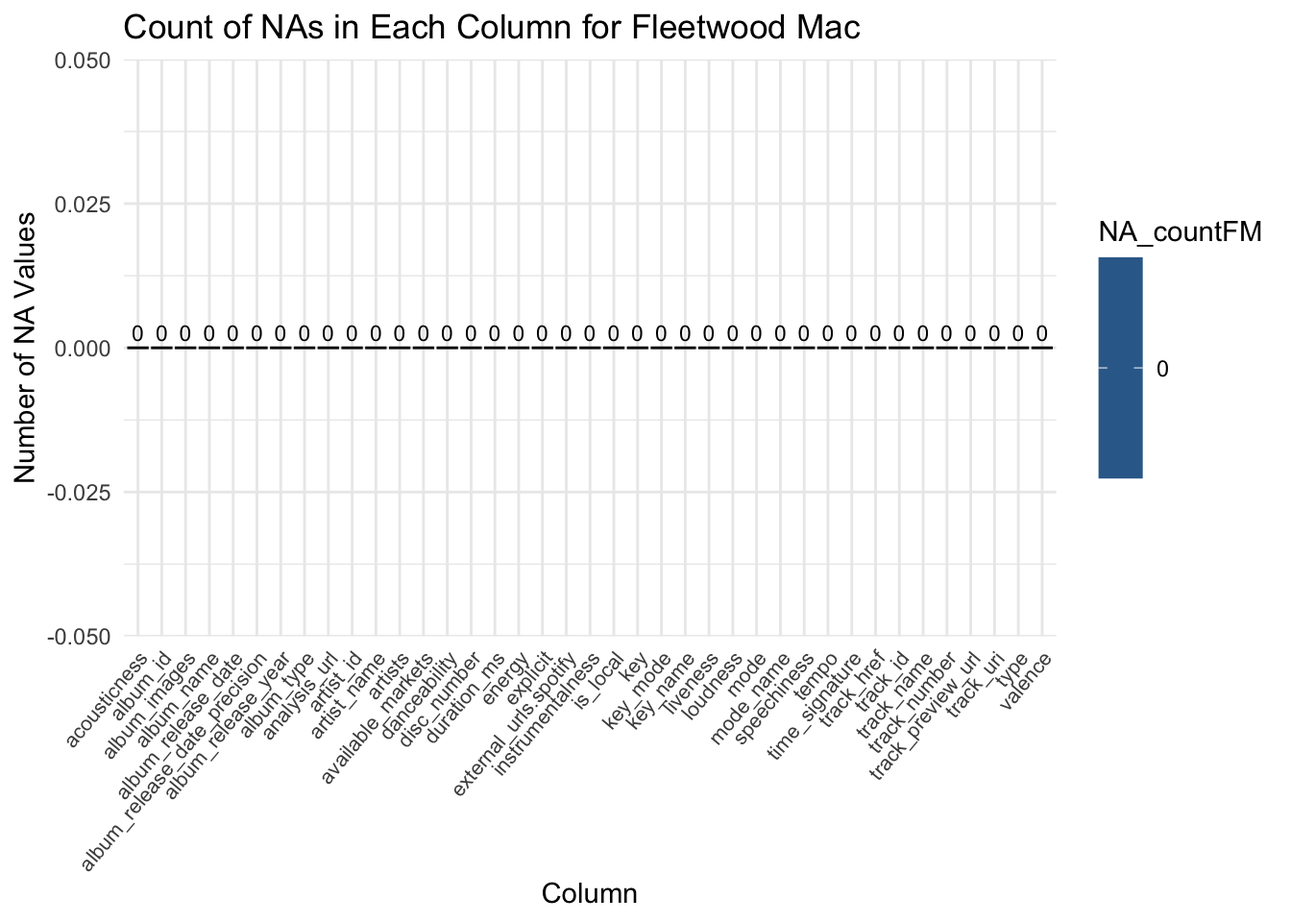
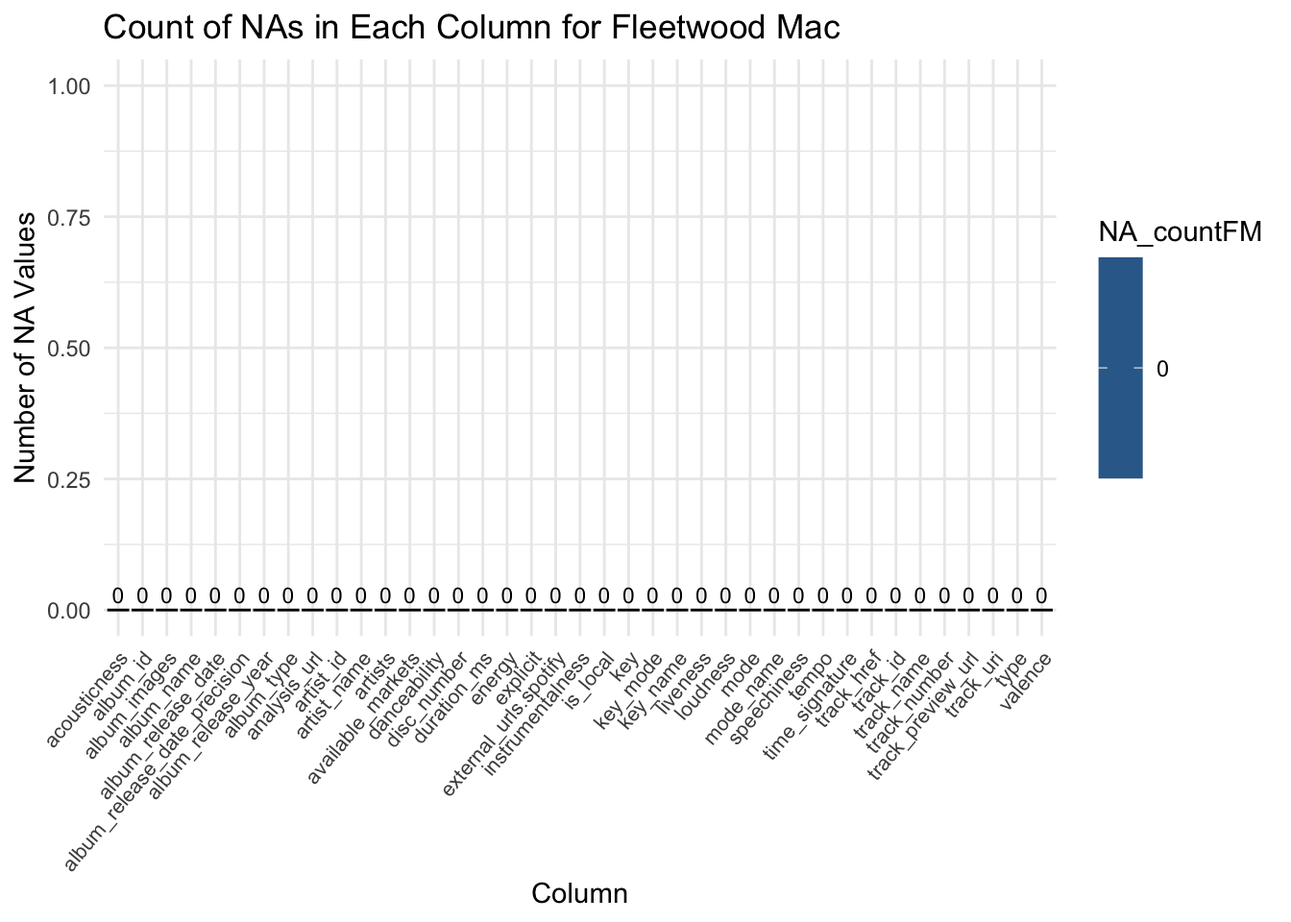
Many fixes

Changed region(s): [[0.0312, 0.0, 0.8125, 0.9375], [0.4062, 0.9375, 0.5, 1.0]]

diff --git a/docs/data.html b/docs/data.html
@@ -176,9 +176,9 @@ pre > code.sourceCode > span > a:first-child::before { text-decoration: underlin
     <h2 id="toc-title">Table of contents</h2>
    
   <ul>
-  <li><a href="#technical-description" id="toc-technical-description" class="nav-link active" data-scroll-target="#technical-description"><span class="header-section-number">2.1</span> Technical description</a></li>
-  <li><a href="#description" id="toc-description" class="nav-link" data-scroll-target="#description"><span class="header-section-number">2.2</span> Description</a></li>
-  <li><a href="#missing-value-analysis" id="toc-missing-value-analysis" class="nav-link" data-scroll-target="#missing-value-analysis"><span class="header-section-number">2.3</span> Missing value analysis</a></li>
+  <li><a href="#technical-description" id="toc-technical-description" class="nav-link active" data-scroll-target="#technical-description"><span class="header-section-number">2.1</span> Technical Description</a></li>
+  <li><a href="#research-plan" id="toc-research-plan" class="nav-link" data-scroll-target="#research-plan"><span class="header-section-number">2.2</span> Research Plan</a></li>
+  <li><a href="#missing-value-analysis" id="toc-missing-value-analysis" class="nav-link" data-scroll-target="#missing-value-analysis"><span class="header-section-number">2.3</span> Missing Value Analysis</a></li>
   </ul>
 <div class="toc-actions"><div><i class="bi bi-github"></i></div><div class="action-links"><p><a href="https://github.com/jjvv00/SpotifyTrends.git/edit/main/data.qmd" class="toc-action">Edit this page</a></p><p><a href="https://github.com/jjvv00/SpotifyTrends.git/issues/new" class="toc-action">Report an issue</a></p></div></div></nav>
     </div>
@@ -203,22 +203,20 @@ pre > code.sourceCode > span > a:first-child::before { text-decoration: underlin
 </header>
 
 <section id="technical-description" class="level2" data-number="2.1">
-<h2 data-number="2.1" class="anchored" data-anchor-id="technical-description"><span class="header-section-number">2.1</span> Technical description</h2>
+<h2 data-number="2.1" class="anchored" data-anchor-id="technical-description"><span class="header-section-number">2.1</span> Technical Description</h2>
 <p>We will be accessing the Spotify Web API that provides us to a vast collection of music-related data. This could include information about tracks, albums, artists, and user-specific information. This data is collected and maintained by Spotify, a leading music streaming platform. Thus, we are assuming that Spotify is able to update the API frequently. There are not any obvious issues or problems with the data. We plan to retrieve data through the “spotifyr” R wrapper for pulling track audio features and other information from Spotify’s Web API in bulk <a href="https://www.rcharlie.com/spotifyr/">(Thompson, Et al., 2022)</a>. The authors are Josia Parry, Donal Phipps, Tom Wolf, and Charlie Thompson, who also maintains the package. According to Thomposon’s Github, the last changes are from December 14, 2022.</p>
-<p>Even Oppenheimer completed a project called “Using Data to Find the Angriest Death Grips Song“ <a href="https://medium.com/@evanopp/angriest-death-grips-data-anger-502168c1c2f0">(Oppenheimer, 2022)</a>. We plan to follow this procedure in tandem with the valence and energy variables from the “spotifyr” R wrapper to analyze the moods of the songs. Our current concern is that Oppenheimer uses an r package, ‘genius,’ written by Josiah Parry with ’tidytext” by Julia Slige to count the number of angry words that are in songs. “genuis” package allows easy access to lyrics as text data, however, Parry announced on October 31, 2021, that he will not be maintaining the package due to the gray legal area <a href="https://github.com/JosiahParry/genius">(Parry, 2023)</a> . On the other hand, “tidytext” was recently updated on September 5, 2023.</p>
+<p>Our data is in the form of 4 dataframes, one for each of our top two artists. These data frames contain all of the songs for a specific artist (Taylor Swift, Fleetwood Mac, Doja Cat, and Peso Pluma). There are 39 features listed for each song. These range from basic descriptors such as song title, album, release date, to more complex features to describe the mood/tone of the songs. We will mainly utilize the danceability, energy, and valence scores for each song. The number of rows in each of these data frames is the total number of songs each artist has. Taylor Swift will have a data frame of 530 X 39. Fleetwood Mac has a data frame of size 760 X 39. Doja Cat has a data frame of size 91 X 39, and Peso Pluma has a data frame of size 57 X 39.</p>
 </section>
-<section id="description" class="level2" data-number="2.2">
-<h2 data-number="2.2" class="anchored" data-anchor-id="description"><span class="header-section-number">2.2</span> Description</h2>
-<p>Comparative Analysis of Top Tracks:</p>
-<p>The Spotify Web API provides access to user-specific data, including the top tracks for each user. By querying the API for both partners, we can retrieve information on their individual top tracks. The data includes details such as track name, artist, album, and popularity. Through the Spotify R package, we can seamlessly compare the top tracks, identifying commonalities and differences in musical preferences. Using the <code>get_my_top_tracks</code> function from the “spotifyr,” we can get the top tracks from each user. We can extract relevant details such as track name, artist, and album and save it to a data frame and visualize it.</p>
+<section id="research-plan" class="level2" data-number="2.2">
+<h2 data-number="2.2" class="anchored" data-anchor-id="research-plan"><span class="header-section-number">2.2</span> Research Plan</h2>
+<p>Comparative Analysis of Top Artists:</p>
+<p>We will analyze the top two artists for each of us provided by our Spotify Wrapped.</p>
 <p>Exploring Album Moods:</p>
-<p>Leveraging the Spotify API’s audio features, particularly valence and energy, we can analyze the mood dynamics of artists’ albums. Valence represents the musical positiveness, while energy represents the intensity and activity. By aggregating these features at the album level, we gain insights into the overall emotional content of each album. The Spotify R package allows us to efficiently extract and process this information, enabling us to explore patterns and themes in the emotional landscape of diverse artists. By utilizing the <code>get_audio_features</code> function from the “spotifyr,” we can obtain the valence and energy features for each track. Then. we can aggregate these features at the album level to represent the overall mood. Lastly, we can analyze patterns and trends in mood dynamics across different artists’ albums.</p>
-<p>Lyrics and Emotional Expression:</p>
-<p>The Genius R package provides access to song lyrics, allowing us to perform sentiment analysis and explore emotional expression in the lyrics of selected songs. By querying the Genius API through the “genuis” R package, we can retrieve lyrics for specific tracks of interest. Combining this textual data with the emotional features obtained from the Spotify API, we can deepen our understanding of how lyrics contribute to the overall emotional depth and resonance of the music. We can query the Genius API through the “genuis” to retrieve lyrics for selected tracks. Then we can perform sentiment analysis on the lyrics to quantify emotional expression based on the number of “angry” words identified by NRC’s standards with the help of “tidytext”.</p>
-<p>By executing these data-driven analyses, we should be able to identify shared musical preferences and unique individual tastes based on top track analysis and visualize the emotional dynamics within albums, offering insights into how artists convey mood through their music. Our project aims to contribute meaningful insights into the intricate relationship between personal music preferences, emotional resonance, and the broader artistic expression found within the world of music.</p>
+<p>Leveraging the Spotify API’s audio features, particularly valence and energy, we can analyze the mood dynamics of artists’ albums. Valence represents the musical positivity, while energy represents the intensity and activity. By aggregating these features at the album level, we gain insights into the overall emotional content of each album. The Spotify R package allows us to extract and process this information efficiently, enabling us to explore patterns and themes in the emotional landscape of diverse artists. By utilizing the <code>get_audio_features</code> function from the “spotifyr,” we can obtain the valence, danceability, and energy features for each track. Then. we can aggregate these features at the album level to represent the overall mood. Lastly, we can analyze patterns and trends in mood dynamics across different artists’ albums.</p>
 </section>
 <section id="missing-value-analysis" class="level2" data-number="2.3">
-<h2 data-number="2.3" class="anchored" data-anchor-id="missing-value-analysis"><span class="header-section-number">2.3</span> Missing value analysis</h2>
+<h2 data-number="2.3" class="anchored" data-anchor-id="missing-value-analysis"><span class="header-section-number">2.3</span> Missing Value Analysis</h2>
+<p>The only missing values are in the “track_preview_url” column in the Taylor Swift dataframe.</p>
 <div class="cell">
 <details>
 <summary>Code</summary>
@@ -286,6 +284,7 @@ Attaching package: 'dplyr'</code></pre>
 <p><img src="data_files/figure-html/unnamed-chunk-2-1.png" class="img-fluid" width="672"></p>
 </div>
 </div>
+<p>As you can see, the NA values are in the “track_preview_url” column. However, we will not be using this feature anyway, so we will remove it from all of the dataframes.</p>
 <div class="cell">
 <details>
 <summary>Code</summary>
@@ -298,15 +297,17 @@ Attaching package: 'dplyr'</code></pre>
 <span id="cb10-7"><a href="#cb10-7" aria-hidden="true" tabindex="-1"></a></span>
 <span id="cb10-8"><a href="#cb10-8" aria-hidden="true" tabindex="-1"></a><span class="fu">ggplot</span>(na_dataFM, <span class="fu">aes</span>(<span class="at">x =</span> column, <span class="at">y =</span> NA_countFM, <span class="at">fill =</span> NA_countFM)) <span class="sc">+</span></span>
 <span id="cb10-9"><a href="#cb10-9" aria-hidden="true" tabindex="-1"></a>  <span class="fu">geom_bar</span>(<span class="at">stat =</span> <span class="st">"identity"</span>, <span class="at">color =</span> <span class="st">"black"</span>) <span class="sc">+</span></span>
-<span id="cb10-10"><a href="#cb10-10" aria-hidden="true" tabindex="-1"></a>  <span class="fu">labs</span>(<span class="at">title =</span> <span class="st">"Count of NAs in Each Column for Fleetwood Mac"</span>, <span class="at">x =</span> <span class="st">"Column"</span>, <span class="at">y =</span> <span class="st">"Number of NA Values"</span>) <span class="sc">+</span></span>
-<span id="cb10-11"><a href="#cb10-11" aria-hidden="true" tabindex="-1"></a>  <span class="fu">theme_minimal</span>() <span class="sc">+</span> </span>
-<span id="cb10-12"><a href="#cb10-12" aria-hidden="true" tabindex="-1"></a>  <span class="fu">theme</span>(<span class="at">axis.text.x =</span> <span class="fu">element_text</span>(<span class="at">size =</span> <span class="dv">8</span>, <span class="at">angle =</span> <span class="dv">50</span>, <span class="at">hjust =</span> <span class="dv">1</span>)) <span class="sc">+</span> </span>
-<span id="cb10-13"><a href="#cb10-13" aria-hidden="true" tabindex="-1"></a>  <span class="fu">geom_text</span>(<span class="fu">aes</span>(<span class="at">label =</span> NA_countFM), <span class="at">vjust =</span> <span class="sc">-</span><span class="fl">0.5</span>, <span class="at">size =</span> <span class="dv">3</span>)</span></code><button title="Copy to Clipboard" class="code-copy-button"><i class="bi"></i></button></pre></div>
+<span id="cb10-10"><a href="#cb10-10" aria-hidden="true" tabindex="-1"></a>  <span class="fu">scale_y_continuous</span>(<span class="at">limits =</span> <span class="fu">c</span>(<span class="dv">0</span>, <span class="fu">max</span>(NA_countsFM) <span class="sc">+</span> <span class="dv">1</span>)) <span class="sc">+</span> </span>
+<span id="cb10-11"><a href="#cb10-11" aria-hidden="true" tabindex="-1"></a>  <span class="fu">labs</span>(<span class="at">title =</span> <span class="st">"Count of NAs in Each Column for Fleetwood Mac"</span>, <span class="at">x =</span> <span class="st">"Column"</span>, <span class="at">y =</span> <span class="st">"Number of NA Values"</span>) <span class="sc">+</span></span>
+<span id="cb10-12"><a href="#cb10-12" aria-hidden="true" tabindex="-1"></a>  <span class="fu">theme_minimal</span>() <span class="sc">+</span> </span>
+<span id="cb10-13"><a href="#cb10-13" aria-hidden="true" tabindex="-1"></a>  <span class="fu">theme</span>(<span class="at">axis.text.x =</span> <span class="fu">element_text</span>(<span class="at">size =</span> <span class="dv">8</span>, <span class="at">angle =</span> <span class="dv">50</span>, <span class="at">hjust =</span> <span class="dv">1</span>)) <span class="sc">+</span> </span>
+<span id="cb10-14"><a href="#cb10-14" aria-hidden="true" tabindex="-1"></a>  <span class="fu">geom_text</span>(<span class="fu">aes</span>(<span class="at">label =</span> NA_countFM), <span class="at">vjust =</span> <span class="sc">-</span><span class="fl">0.5</span>, <span class="at">size =</span> <span class="dv">3</span>)</span></code><button title="Copy to Clipboard" class="code-copy-button"><i class="bi"></i></button></pre></div>
 </details>
 <div class="cell-output-display">
 <p><img src="data_files/figure-html/unnamed-chunk-3-1.png" class="img-fluid" width="672"></p>
 </div>
 </div>
+<p>There are no NA values in this data frame.</p>
 <div class="cell">
 <details>
 <summary>Code</summary>
@@ -319,28 +320,30 @@ Attaching package: 'dplyr'</code></pre>
 <span id="cb11-7"><a href="#cb11-7" aria-hidden="true" tabindex="-1"></a></span>
 <span id="cb11-8"><a href="#cb11-8" aria-hidden="true" tabindex="-1"></a><span class="fu">ggplot</span>(na_dataDC, <span class="fu">aes</span>(<span class="at">x =</span> column, <span class="at">y =</span> NA_countDC, <span class="at">fill =</span> NA_countDC)) <span class="sc">+</span></span>
 <span id="cb11-9"><a href="#cb11-9" aria-hidden="true" tabindex="-1"></a>  <span class="fu">geom_bar</span>(<span class="at">stat =</span> <span class="st">"identity"</span>, <span class="at">color =</span> <span class="st">"black"</span>) <span class="sc">+</span></span>
-<span id="cb11-10"><a href="#cb11-10" aria-hidden="true" tabindex="-1"></a>  <span class="fu">labs</span>(<span class="at">title =</span> <span class="st">"Count of NAs in Each Column for Doja Cat"</span>, <span class="at">x =</span> <span class="st">"Column"</span>, <span class="at">y =</span> <span class="st">"Number of NA Values"</span>) <span class="sc">+</span></span>
-<span id="cb11-11"><a href="#cb11-11" aria-hidden="true" tabindex="-1"></a>  <span class="fu">theme_minimal</span>() <span class="sc">+</span> </span>
-<span id="cb11-12"><a href="#cb11-12" aria-hidden="true" tabindex="-1"></a>  <span class="fu">theme</span>(<span class="at">axis.text.x =</span> <span class="fu">element_text</span>(<span class="at">size =</span> <span class="dv">8</span>, <span class="at">angle =</span> <span class="dv">50</span>, <span class="at">hjust =</span> <span class="dv">1</span>)) <span class="sc">+</span> </span>
-<span id="cb11-13"><a href="#cb11-13" aria-hidden="true" tabindex="-1"></a>  <span class="fu">geom_text</span>(<span class="fu">aes</span>(<span class="at">label =</span> NA_countDC), <span class="at">vjust =</span> <span class="sc">-</span><span class="fl">0.5</span>, <span class="at">size =</span> <span class="dv">3</span>)</span></code><button title="Copy to Clipboard" class="code-copy-button"><i class="bi"></i></button></pre></div>
+<span id="cb11-10"><a href="#cb11-10" aria-hidden="true" tabindex="-1"></a>  <span class="fu">scale_y_continuous</span>(<span class="at">limits =</span> <span class="fu">c</span>(<span class="dv">0</span>, <span class="fu">max</span>(NA_countsDC) <span class="sc">+</span> <span class="dv">1</span>)) <span class="sc">+</span></span>
+<span id="cb11-11"><a href="#cb11-11" aria-hidden="true" tabindex="-1"></a>  <span class="fu">labs</span>(<span class="at">title =</span> <span class="st">"Count of NAs in Each Column for Doja Cat"</span>, <span class="at">x =</span> <span class="st">"Column"</span>, <span class="at">y =</span> <span class="st">"Number of NA Values"</span>) <span class="sc">+</span></span>
+<span id="cb11-12"><a href="#cb11-12" aria-hidden="true" tabindex="-1"></a>  <span class="fu">theme_minimal</span>() <span class="sc">+</span> </span>
+<span id="cb11-13"><a href="#cb11-13" aria-hidden="true" tabindex="-1"></a>  <span class="fu">theme</span>(<span class="at">axis.text.x =</span> <span class="fu">element_text</span>(<span class="at">size =</span> <span class="dv">8</span>, <span class="at">angle =</span> <span class="dv">50</span>, <span class="at">hjust =</span> <span class="dv">1</span>)) <span class="sc">+</span> </span>
+<span id="cb11-14"><a href="#cb11-14" aria-hidden="true" tabindex="-1"></a>  <span class="fu">geom_text</span>(<span class="fu">aes</span>(<span class="at">label =</span> NA_countDC), <span class="at">vjust =</span> <span class="sc">-</span><span class="fl">0.5</span>, <span class="at">size =</span> <span class="dv">3</span>)</span></code><button title="Copy to Clipboard" class="code-copy-button"><i class="bi"></i></button></pre></div>
 </details>
 <div class="cell-output-display">
 <p><img src="data_files/figure-html/unnamed-chunk-4-1.png" class="img-fluid" width="672"></p>
 </div>
 </div>
+<p>There are no NA values in this data frame.</p>
 <div class="cell">
 <details>
 <summary>Code</summary>
 <div class="sourceCode cell-code" id="cb12"><pre class="sourceCode r code-with-copy"><code class="sourceCode r"><span id="cb12-1"><a href="#cb12-1" aria-hidden="true" tabindex="-1"></a><span class="co"># For Peso Pluma</span></span>
 <span id="cb12-2"><a href="#cb12-2" aria-hidden="true" tabindex="-1"></a>PP <span class="ot">&lt;-</span> <span class="fu">get_artist_audio_features</span>(<span class="st">'peso pluma'</span>)</span>
-<span id="cb12-3"><a href="#cb12-3" aria-hidden="true" tabindex="-1"></a><span class="fu">View</span>(PP)</span>
-<span id="cb12-4"><a href="#cb12-4" aria-hidden="true" tabindex="-1"></a></span>
-<span id="cb12-5"><a href="#cb12-5" aria-hidden="true" tabindex="-1"></a>NA_countsPP <span class="ot">&lt;-</span> <span class="fu">colSums</span>(<span class="fu">is.na</span>(PP))</span>
-<span id="cb12-6"><a href="#cb12-6" aria-hidden="true" tabindex="-1"></a></span>
-<span id="cb12-7"><a href="#cb12-7" aria-hidden="true" tabindex="-1"></a>na_dataPP <span class="ot">&lt;-</span> <span class="fu">data.frame</span>(<span class="at">column =</span> <span class="fu">names</span>(NA_countsPP), <span class="at">NA_countPP =</span> NA_countsPP)</span>
-<span id="cb12-8"><a href="#cb12-8" aria-hidden="true" tabindex="-1"></a></span>
-<span id="cb12-9"><a href="#cb12-9" aria-hidden="true" tabindex="-1"></a><span class="fu">ggplot</span>(na_dataPP, <span class="fu">aes</span>(<span class="at">x =</span> column, <span class="at">y =</span> NA_countPP, <span class="at">fill =</span> NA_countPP)) <span class="sc">+</span></span>
-<span id="cb12-10"><a href="#cb12-10" aria-hidden="true" tabindex="-1"></a>  <span class="fu">geom_bar</span>(<span class="at">stat =</span> <span class="st">"identity"</span>, <span class="at">color =</span> <span class="st">"black"</span>) <span class="sc">+</span></span>
+<span id="cb12-3"><a href="#cb12-3" aria-hidden="true" tabindex="-1"></a></span>
+<span id="cb12-4"><a href="#cb12-4" aria-hidden="true" tabindex="-1"></a>NA_countsPP <span class="ot">&lt;-</span> <span class="fu">colSums</span>(<span class="fu">is.na</span>(PP))</span>
+<span id="cb12-5"><a href="#cb12-5" aria-hidden="true" tabindex="-1"></a></span>
+<span id="cb12-6"><a href="#cb12-6" aria-hidden="true" tabindex="-1"></a>na_dataPP <span class="ot">&lt;-</span> <span class="fu">data.frame</span>(<span class="at">column =</span> <span class="fu">names</span>(NA_countsPP), <span class="at">NA_countPP =</span> NA_countsPP)</span>
+<span id="cb12-7"><a href="#cb12-7" aria-hidden="true" tabindex="-1"></a></span>
+<span id="cb12-8"><a href="#cb12-8" aria-hidden="true" tabindex="-1"></a><span class="fu">ggplot</span>(na_dataPP, <span class="fu">aes</span>(<span class="at">x =</span> column, <span class="at">y =</span> NA_countPP, <span class="at">fill =</span> NA_countPP)) <span class="sc">+</span></span>
+<span id="cb12-9"><a href="#cb12-9" aria-hidden="true" tabindex="-1"></a>  <span class="fu">geom_bar</span>(<span class="at">stat =</span> <span class="st">"identity"</span>, <span class="at">color =</span> <span class="st">"black"</span>) <span class="sc">+</span></span>
+<span id="cb12-10"><a href="#cb12-10" aria-hidden="true" tabindex="-1"></a>  <span class="fu">scale_y_continuous</span>(<span class="at">limits =</span> <span class="fu">c</span>(<span class="dv">0</span>, <span class="fu">max</span>(NA_countsPP) <span class="sc">+</span> <span class="dv">1</span>)) <span class="sc">+</span></span>
 <span id="cb12-11"><a href="#cb12-11" aria-hidden="true" tabindex="-1"></a>  <span class="fu">labs</span>(<span class="at">title =</span> <span class="st">"Count of NAs in Each Column for Peso Pluma"</span>, <span class="at">x =</span> <span class="st">"Column"</span>, <span class="at">y =</span> <span class="st">"Number of NA Values"</span>) <span class="sc">+</span></span>
 <span id="cb12-12"><a href="#cb12-12" aria-hidden="true" tabindex="-1"></a>  <span class="fu">theme_minimal</span>() <span class="sc">+</span> </span>
 <span id="cb12-13"><a href="#cb12-13" aria-hidden="true" tabindex="-1"></a>  <span class="fu">theme</span>(<span class="at">axis.text.x =</span> <span class="fu">element_text</span>(<span class="at">size =</span> <span class="dv">8</span>, <span class="at">angle =</span> <span class="dv">50</span>, <span class="at">hjust =</span> <span class="dv">1</span>)) <span class="sc">+</span> </span>
@@ -350,6 +353,7 @@ Attaching package: 'dplyr'</code></pre>
 <p><img src="data_files/figure-html/unnamed-chunk-5-1.png" class="img-fluid" width="672"></p>
 </div>
 </div>
+<p>There are no NA values in this data frame.</p>
 
 
 </section>

diff --git a/docs/index.html b/docs/index.html
@@ -183,10 +183,10 @@ ul.task-list li input[type="checkbox"] {
 
 <section id="introduction" class="level1" data-number="1">
 <h1 data-number="1"><span class="header-section-number">1</span> Introduction</h1>
-<p>Each person is a unique and diverse individual. Music is a vast and dynamic landscape, and personal preferences and the emotional impact of songs can vary widely person to person as well. We are in a digital age, where streaming service dominates. This allows the availability of extensive music libraries. From these streaming services, APIs open up new avenues for exploring the diverse facets of musical tastes and emotional resonance in numbers.</p>
-<p>As mentioned earlier, there are a multitude of platforms to stream music. Pandora, Apple Music, Youtube, Amazon, and Spotify are popular choices. In most of these platforms, users are not only listeners. They are the curator of their own musical experiences. These platforms read the user’s data in order to make recommendations and playlists based on their listening preferences. With the “spotifyr” package, we could analyze the the emotions of an artist’s album and look at some insights of the user.</p>
-<p>Our decision to explore musical preferences through the Spotify R package is motivated by the desire to understand the intersection of personal taste, emotional connection, and shared musical experiences. By comparing the top tracks between two users, we aim to uncover similarities and differences that may reflect diverse musical journeys and influences. While it is unlikely to have overlap between our top 10 tracks, it is the moods of the artists that could be insightful. Using Spotify’s valence and energy variables as proxies for emotional content, we can compare the moods of artists’ albums. This approach allows us to not only appreciate individual songs but also to understand the broader emotional tapestry woven throughout an artist’s body of work.</p>
-<p>This exploration not only contributes to our understanding of the intricacies of musical preferences but also sheds light on the emotional narratives woven into the fabric of music. By combining data-driven insights from the Spotify R package with the lyrical nuances revealed by the Genius package, we aim to offer a comprehensive perspective on the intersection of personal, emotional, and shared experiences within the realm of music. Through this project, we hope to unravel the richness of musical expression and its profound impact on individual and collective identities.</p>
+<p>Everyone is unique and diverse. Music is a vast and dynamic landscape, and personal preferences and the emotional impact of songs can vary widely from person to person as well. We are in a digital age where streaming services dominate. This allows the availability of extensive music libraries. From these streaming services, APIs open up new avenues for exploring the diverse facets of musical tastes and emotional resonance in numbers.</p>
+<p>As mentioned earlier, there are a multitude of platforms to stream music. Pandora, Apple Music, YouTube, Amazon, and Spotify are popular choices. In most of these platforms, users are not only listeners. They are the curators of their own musical experiences. In order to help each user curate their experience, these platforms read user data and make recommendations and playlists based on their listening preferences. One of the most popular apps is Spotify, and each year, Spotify releases trends for each user based on their listening pattern for the year called “Spotify Wrapped,” which was recently released! For this project, we will use the “spotifyr” package to access extensive data about songs from our top artists of the year. The “spotifyr” package is useful for developers to analyze the the emotions of an artist’s album and look at some insights of the user. However, we will only use the functions to access the artists’ data.</p>
+<p>Our decision to explore musical preferences through the Spotify R package is motivated by the desire to understand the intersection of personal taste, emotional connection, and shared musical experiences. By comparing the top tracks between two users, we aim to uncover similarities and differences that may reflect diverse musical journeys and influences. While it is unlikely to have an overlap between our top artists and tracks, it is the moods of the artists that could be insightful. Using the valence, energy, and danceability variables from “spotifyr,” we can compare the moods of artists’ albums.</p>
+<p>This exploration not only contributes to our understanding of the intricacies of musical preferences but also sheds light on the emotional narratives woven into music. By combining data-driven insights from the Spotify R package, we aim to offer a comprehensive perspective on the intersection of personal, emotional, and shared experiences within the realm of music. Through this project, we hope to unravel the richness of musical expression and its profound impact on individual and collective identities.</p>
 
 
 </section>
